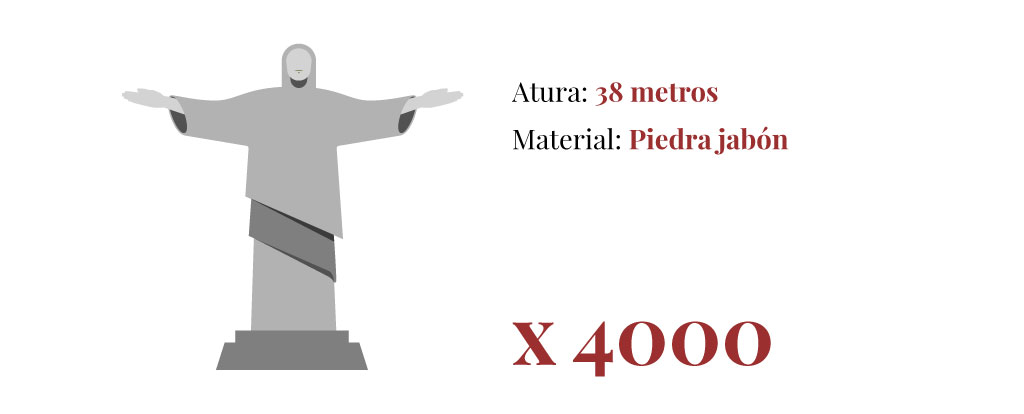
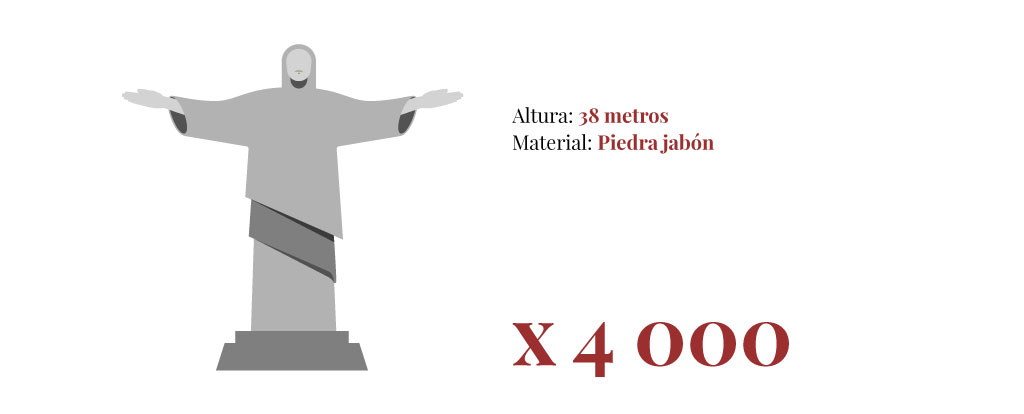
sda

diff --git a/it/index.html b/it/index.html
@@ -93,7 +93,7 @@
             <br>
             <h4>Titolo Grafico</h4>
             <img src="img/chart_01.jpg">
-            <p>Fuente: </p>
+            <p>Fonte: </p>
         </div>
     </div>
 
@@ -103,7 +103,8 @@
 
                 <div class="medium-12 columns fade-out">
                     <img src="img/risp_divider_top.jpg">
-                    <h3>¿Cuántas toneladas de cacao se estima que se producirán mundialmente en 2015?</h3>
+                    <h3>Quante tonnellate di cacao si estima che si produrranno nel 2015? 
+</h3>
                     <img src="img/risp_divider.jpg">
                     <br>
                     <br>
@@ -112,18 +113,18 @@
 
                 <div class="medium-6 columns">
                     <div class="small-6 columns fade delay-01">
-                        <button id="btn-post" data-target="post_container" data-result="Incorrecto" class="btn btn btn-primary active" type="button">1000 mil toneladas</button>
+                        <button id="btn-post" data-target="post_container" data-result="Sbagliato" class="btn btn btn-primary active" type="button">1 millione di tonnellate</button>
                     </div>
                     <div class="small-6 columns fade delay-02">
-                        <button id="btn-game" data-target="game_container" data-result="Incorrecto" class="btn btn btn-primary" type="button">2000 mil toneladas</button>
+                        <button id="btn-game" data-target="game_container" data-result="Sbagliato" class="btn btn btn-primary" type="button">2 millioni di tonnellate</button>
                     </div>
                 </div>
                 <div class="medium-6 columns">
                     <div class="small-6 columns fade delay-03">
-                        <button id="btn-video" data-target="video_container" data-result="correcto" class="btn btn btn-primary" type="button">4000 mil toneladas</button>
+                        <button id="btn-video" data-target="video_container" data-result="Corretto" class="btn btn btn-primary" type="button">4 millioni di tonnellate</button>
                     </div>
                     <div class="small-6 columns fade delay-04">
-                        <button id="btn-giveaway" data-target="giveaway_container" data-result="Incorrecto" class="btn btn btn-primary" type="button">5000 mil toneladas</button>
+                        <button id="btn-giveaway" data-target="giveaway_container" data-result="Sbagliato" class="btn btn btn-primary" type="button">5 millioni di tonnellate</button>
                     </div>
                 </div>
 
@@ -136,11 +137,11 @@
                 <div class="container" id="post_container">
 
                     <h3 id="risultato" class="fade-in">-</h3>
-                    <h5 class="fade-in delay-06">La producción mundial estimada de cacao corresponde a
- <span>4000 mil toneladas</span>.</h5>
+                    <h5 class="fade-in delay-06">La produzione mondiale di cacao si estima sarà
+ <span>4 millioni di tonnellate</span>.</h5>
 
 
-                    <h5><span>El peso de 4000 veces el Cristo Redentor de Rio de Janeiro.</span></h5>
+                    <h5><span>Il peso di 4000 Cristo Redentore di Rio de Janeiro.</span></h5>
                     <br>
                     <br>
                     <img src="img/risp_divider.jpg">
@@ -151,7 +152,7 @@
                     <br>
                     <br>
                     <br>
-                    <p>Fuente: ICCO Quarterly Bulletin of Cocoa Statistics, Vol. XLI, No. 2, Cocoa year 2014/15</p>
+                    <p>Fonte: ICCO Quarterly Bulletin of Cocoa Statistics, Vol. XLI, No. 2, Cocoa year 2014/15</p>
                 </div>
             </div>
         </div>
@@ -215,7 +216,7 @@
 
                 <div class="medium-9 medium-centered columns fade-out">
                     <img src="img/risp_divider_top.jpg">
-                    <h3>En Ecuador, ¿Cuántas toneladas de cacao se estima que se perderán por causa del fenómeno del Niño?</h3>
+                    <h3>Quante tonnellate di cacao perderanno in Ecuador a causa del fenomeno climatico El Niño? </h3>
                     <img src="img/risp_divider.jpg">
                     <br>
                     <br>
@@ -224,18 +225,18 @@
 
                 <div class="medium-6 columns">
                     <div class="small-6 columns fade delay-01">
-                        <button id="btn-post" data-target="post_container" data-result="Incorrecto" class="btn btn btn-primary active" type="button">20 mil toneladas</button>
+                        <button id="btn-post" data-target="post_container" data-result="Sbagliato" class="btn btn btn-primary active" type="button">20,000 tonnellate</button>
                     </div>
                     <div class="small-6 columns fade delay-02">
-                        <button id="btn-game" data-target="game_container" data-result="Correcto" class="btn btn btn-primary" type="button">40 mil toneladas</button>
+                        <button id="btn-game" data-target="game_container" data-result="Corretto" class="btn btn btn-primary" type="button">40,000 tonnellate</button>
                     </div>
                 </div>
                 <div class="medium-6 columns">
                     <div class="small-6 columns fade delay-03">
-                        <button id="btn-video" data-target="video_container" data-result="Incorrecto" class="btn btn btn-primary" type="button">80 mil toneladas</button>
+                        <button id="btn-video" data-target="video_container" data-result="Sbagliato" class="btn btn btn-primary" type="button">80,000 tonnellate</button>
                     </div>
                     <div class="small-6 columns fade delay-04">
-                        <button id="btn-giveaway" data-target="giveaway_container" data-result="Incorrecto" class="btn btn btn-primary" type="button">100 mil toneladas</button>
+                        <button id="btn-giveaway" data-target="giveaway_container" data-result="Sbagliato" class="btn btn btn-primary" type="button">100,000 tonnellate</button>
                     </div>
                 </div>
 
@@ -257,7 +258,7 @@
                     <img src="img/risp_cargo.jpg">
 
                     <br>
-                    <p>Fuente: Asociación Nacional de Exportadores de Cacao, Anecacao</p>
+                    <p>Fonte: Associazione Nazionale di Esportatori di Cacao dell’Ecuador, Anecacao</p>
                 </div>
             </div>
         </div>
@@ -327,7 +328,7 @@
 
                 <div class="medium-9 medium-centered columns fade-out">
                     <img src="img/risp_divider_top.jpg">
-                    <h3>¿Cuántas toneladas de cacao se estima que se consumirán este año en la India? </h3>
+                    <h3>Quante tonnellate di cioccolato si consumeranno quest’anno in India?</h3>
                     <img src="img/risp_divider.jpg">
                     <br>
                     <br>
@@ -336,18 +337,18 @@
 
                 <div class="medium-6 columns">
                     <div class="small-6 columns fade delay-01">
-                        <button id="btn-post" data-target="post_container" data-result="Incorrecto" class="btn btn btn-primary active" type="button">10 mil toneladas</button>
+                        <button id="btn-post" data-target="post_container" data-result="Sbagliato" class="btn btn btn-primary active" type="button">10,000 tonnellate</button>
                     </div>
                     <div class="small-6 columns fade delay-02">
-                        <button id="btn-game" data-target="game_container" data-result="Incorrecto" class="btn btn btn-primary" type="button">55 mil toneladas</button>
+                        <button id="btn-game" data-target="game_container" data-result="Sbagliato" class="btn btn btn-primary" type="button">55,000 tonnellate</button>
                     </div>
                 </div>
                 <div class="medium-6 columns">
                     <div class="small-6 columns fade delay-03">
-                        <button id="btn-video" data-target="video_container" data-result="Incorrecto" class="btn btn btn-primary" type="button">115 mil toneladas</button>
+                        <button id="btn-video" data-target="video_container" data-result="Sbagliato" class="btn btn btn-primary" type="button">115,000 tonnellate</button>
                     </div>
                     <div class="small-6 columns fade delay-04">
-                        <button id="btn-giveaway" data-target="giveaway_container" data-result="Correcto" class="btn btn btn-primary" type="button">135 mil toneladas</button>
+                        <button id="btn-giveaway" data-target="giveaway_container" data-result="Corretto" class="btn btn btn-primary" type="button">135,000 tonnellate</button>
                     </div>
                 </div>
 
@@ -360,8 +361,9 @@
                 <div class="container" id="post_container">
 
                     <h3 id="risultato" class="fade-in">-</h3>
-                    <h5 class="fade-in delay-06">El consumo de chocolate estimado en la India corresponde a <span>134.000 toneladas</span></h5>
-                    <h5><span>El peso de 30.000 elefantes asiáticos.</span></h5>
+                    <h5 class="fade-in delay-06">Il consumo di cioccolato stimato per il 2015 in India corrisponde a <span>134,000 tonnellate.
+</span></h5>
+                    <h5><span>ll peso di 30,000 elefanti asiatici.</span></h5>
                     <br>
                     <img src="img/risp_divider.jpg">
                     <br>
@@ -369,7 +371,7 @@
                     <br>
                     <br>
                     <br>
-                    <p>Fuente: Mintel, empresa de estudios de mercado.</p>
+                    <p>Fonte: Mintel, società di ricerche di mercato.</p>
                 </div>
             </div>
         </div>
@@ -427,7 +429,7 @@
         <div class="row">
             <div class="medium-6 columns">
                 <img src="img/pic_india_02.jpg">
-                <p class="didascalia">Madre e figlia offrono cioccolato a Lord Muruga/p>
+                <p class="didascalia">Madre e figlia offrono cioccolato a Lord Muruga</p>
             </div>
             <div class="medium-6 columns">
                 <img src="img/pic_india_03.jpg">
@@ -435,7 +437,7 @@
             </div>
         </div>
     </section>
-<center><img src="img/risp_divider.jpg"> </center>
+    <center><img src="img/risp_divider.jpg"> </center>
     <footer>
         <div class="row">
             <div class="medium-7 medium-centered columns">

diff --git a/index.html b/index.html
@@ -103,7 +103,7 @@
 
                 <div class="medium-12 columns fade-out">
                     <img src="img/risp_divider_top.jpg">
-                    <h3>¿Cuántas toneladas de cacao se estima que se producirán mundialmente en 2015?</h3>
+                    <h3>¿Cuántas toneladas de cacao se producirán mundialmente en 2015?</h3>
                     <img src="img/risp_divider.jpg">
                     <br>
                     <br>
@@ -112,18 +112,18 @@
 
                 <div class="medium-6 columns">
                     <div class="small-6 columns fade delay-01">
-                        <button id="btn-post" data-target="post_container" data-result="Incorrecto" class="btn btn btn-primary active" type="button">1000 mil toneladas</button>
+                        <button id="btn-post" data-target="post_container" data-result="Incorrecto" class="btn btn btn-primary active" type="button">1 000 mil toneladas</button>
                     </div>
                     <div class="small-6 columns fade delay-02">
-                        <button id="btn-game" data-target="game_container" data-result="Incorrecto" class="btn btn btn-primary" type="button">2000 mil toneladas</button>
+                        <button id="btn-game" data-target="game_container" data-result="Incorrecto" class="btn btn btn-primary" type="button">2 000 mil toneladas</button>
                     </div>
                 </div>
                 <div class="medium-6 columns">
                     <div class="small-6 columns fade delay-03">
-                        <button id="btn-video" data-target="video_container" data-result="correcto" class="btn btn btn-primary" type="button">4000 mil toneladas</button>
+                        <button id="btn-video" data-target="video_container" data-result="correcto" class="btn btn btn-primary" type="button">4 000 mil toneladas</button>
                     </div>
                     <div class="small-6 columns fade delay-04">
-                        <button id="btn-giveaway" data-target="giveaway_container" data-result="Incorrecto" class="btn btn btn-primary" type="button">5000 mil toneladas</button>
+                        <button id="btn-giveaway" data-target="giveaway_container" data-result="Incorrecto" class="btn btn btn-primary" type="button">5 000 mil toneladas</button>
                     </div>
                 </div>
 
@@ -137,10 +137,10 @@
 
                     <h3 id="risultato" class="fade-in">-</h3>
                     <h5 class="fade-in delay-06">La producción mundial estimada de cacao corresponde a
- <span>4000 mil toneladas</span>.</h5>
+ <span>4 000 mil toneladas</span>.</h5>
 
 
-                    <h5><span>El peso de 4000 veces el Cristo Redentor de Rio de Janeiro.</span></h5>
+                    <h5><span>El peso de 4 000 veces el Cristo Redentor de Rio de Janeiro.</span></h5>
                     <br>
                     <br>
                     <img src="img/risp_divider.jpg">
@@ -218,7 +218,7 @@
 
                 <div class="medium-9 medium-centered columns fade-out">
                     <img src="img/risp_divider_top.jpg">
-                    <h3>En Ecuador, ¿Cuántas toneladas de cacao se estima que se perderán por causa del fenómeno del Niño?</h3>
+                    <h3>En Ecuador, ¿Cuántas toneladas de cacao se perderán por causa del fenómeno del Niño?</h3>
                     <img src="img/risp_divider.jpg">
                     <br>
                     <br>
@@ -253,7 +253,7 @@
                     <h3 id="risultato" class="fade-in">-</h3>
                     <h5 class="fade-in delay-06">La pérdida de cacao estimada corresponde a <span>40 mil toneladas</span>.</h5>
 
-                    <h5><span>l’equivalente di 113.424 lavate di denti</span></h5>
+                    <h5><span>l’equivalente di 113 424 lavate di denti</span></h5>
                     <br>
                     <img src="img/risp_divider.jpg">
                     <br>
@@ -330,7 +330,7 @@
 
                 <div class="medium-9 medium-centered columns fade-out">
                     <img src="img/risp_divider_top.jpg">
-                    <h3>¿Cuántas toneladas de cacao se estima que se consumirán este año en la India? </h3>
+                    <h3>¿Cuántas toneladas de chocolate se consumirán este año en la India?</h3>
                     <img src="img/risp_divider.jpg">
                     <br>
                     <br>
@@ -363,8 +363,8 @@
                 <div class="container" id="post_container">
 
                     <h3 id="risultato" class="fade-in">-</h3>
-                    <h5 class="fade-in delay-06">El consumo de chocolate estimado en la India corresponde a <span>134.000 toneladas</span></h5>
-                    <h5><span>El peso de 30.000 elefantes asiáticos.</span></h5>
+                    <h5 class="fade-in delay-06">El consumo de chocolate estimado en la India corresponde a <span>134 000 toneladas</span></h5>
+                    <h5><span>El peso de 30 000 elefantes asiáticos.</span></h5>
                     <br>
                     <img src="img/risp_divider.jpg">
                     <br>
